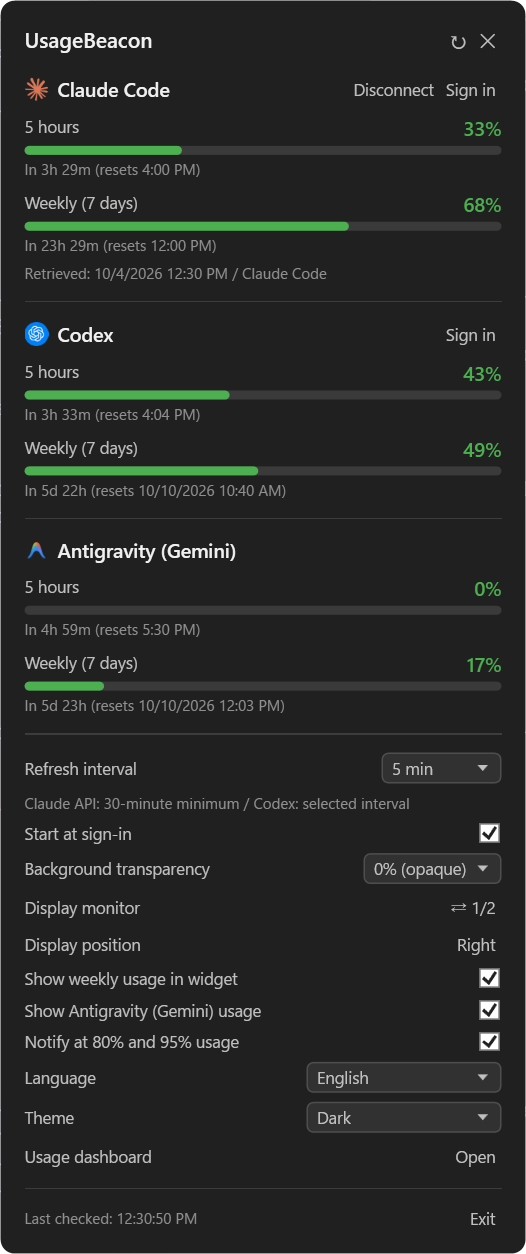
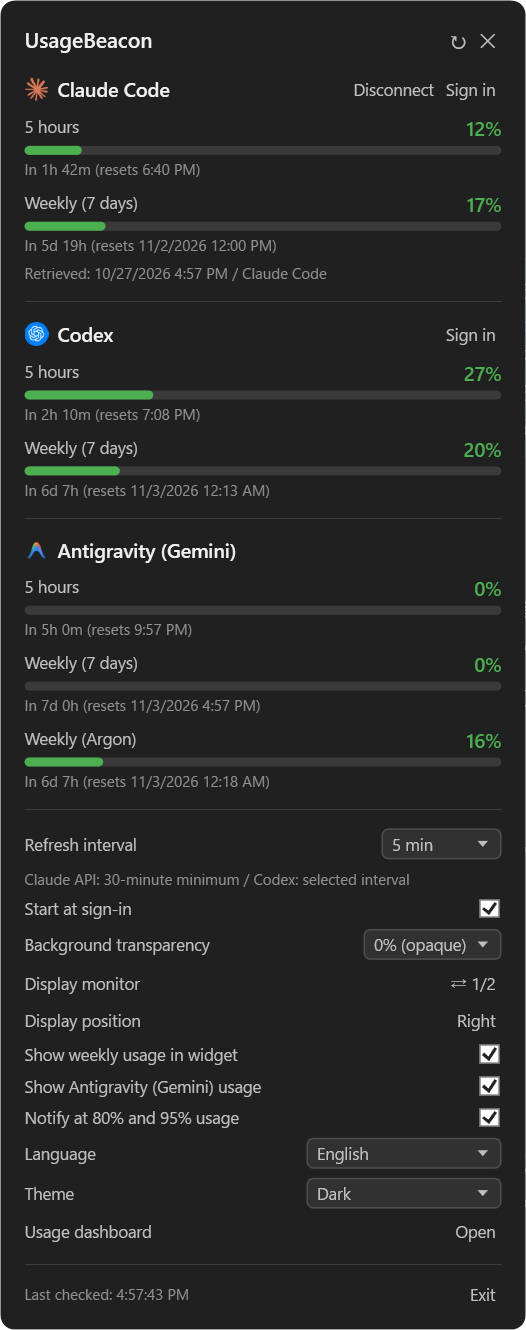
[🍱] Recapture popup and tooltip screenshots with the Argon quota

diff --git a/README.md b/README.md
@@ -14,7 +14,7 @@
 
 [Features](#features) • [Install](#install) • [Usage](#usage) • [Dashboard](#usage-dashboard) • [Privacy](#data-and-privacy)
 
-<img src="docs/images/popup.png" alt="UsageBeacon popup showing Claude Code, Codex, and Antigravity (Gemini) usage windows" width="340">
+<img src="docs/images/popup.png" alt="UsageBeacon popup showing Claude Code, Codex, and Antigravity (Gemini) usage windows, including the Gemini 4 Argon weekly limit" width="340">
 
 </div>
 
@@ -59,7 +59,7 @@ percentage on the right:
 Hovering the widget shows each service's five-hour and weekly percentages with the time left until
 each resets:
 
-<img src="docs/images/widget-tooltip.png" alt="Widget tooltip listing Claude, Codex, and Gemini percentages with reset countdowns" width="346">
+<img src="docs/images/widget-tooltip.png" alt="Widget tooltip listing Claude, Codex, and Gemini percentages, including Gemini 4 Argon, with reset countdowns" width="497">
 
 If the selected taskbar has no safe space, the widget hides until a space becomes available;
 the notification-area icon remains available. The tray menu can also hide the widget for an hour
